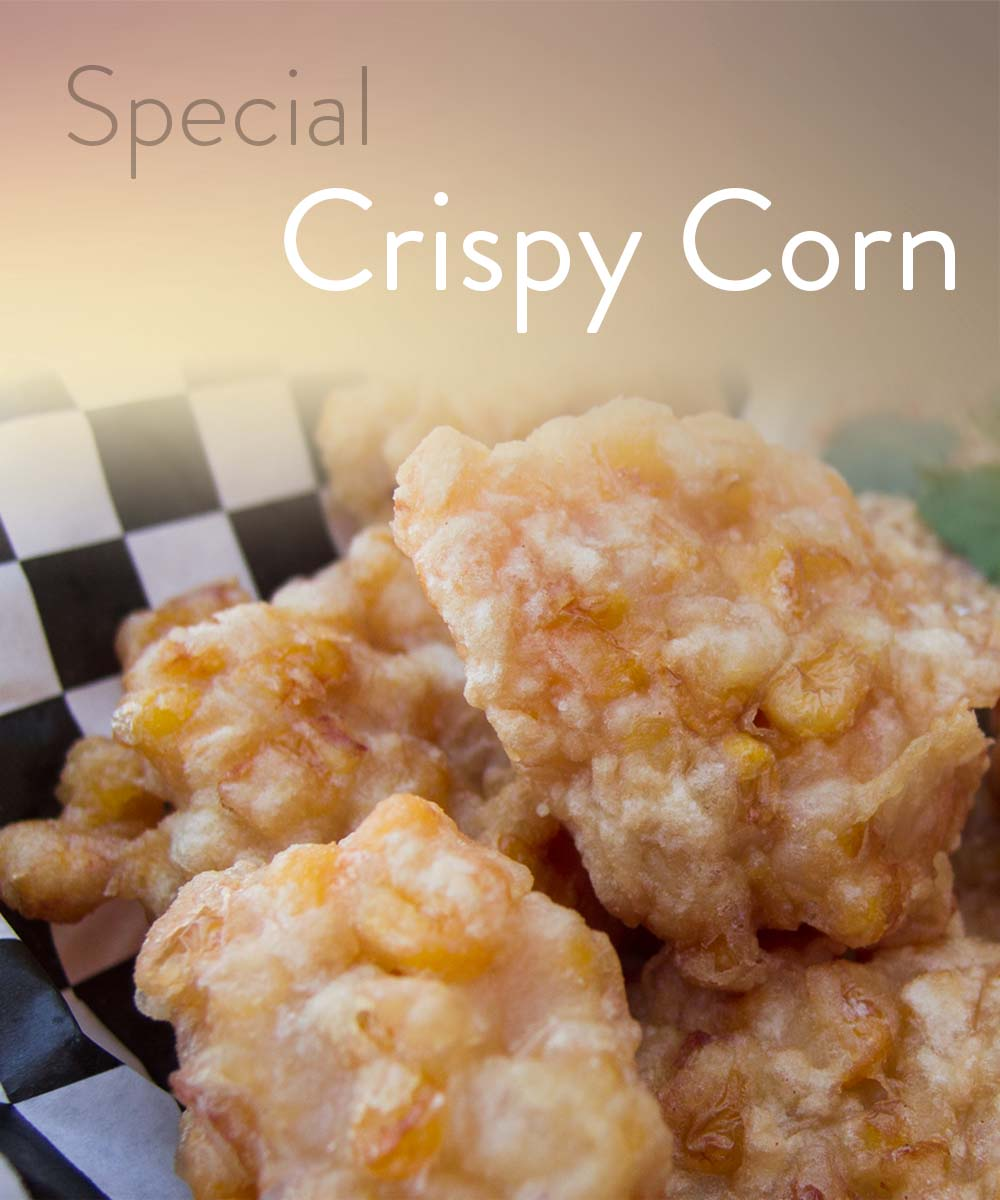
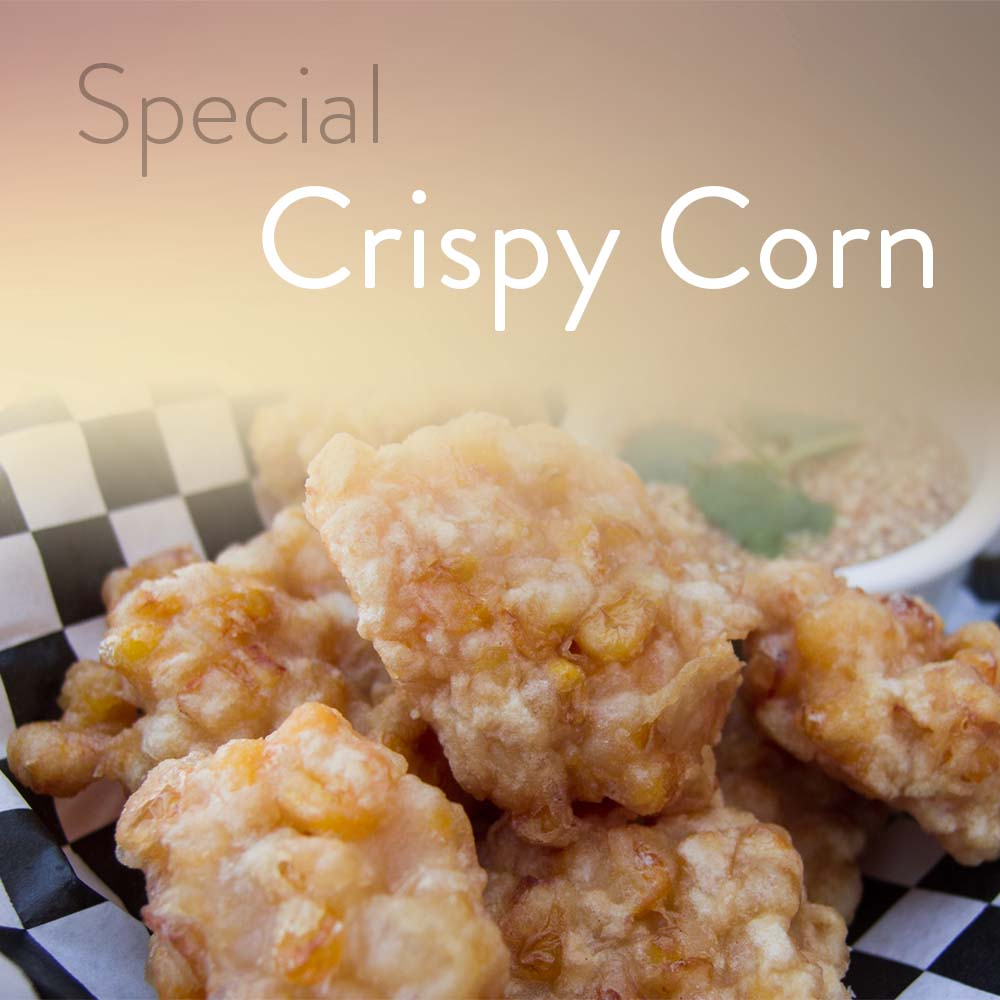
edit index

diff --git a/thairamaapp/templates/thairamaapp/index.html b/thairamaapp/templates/thairamaapp/index.html
@@ -11,9 +11,9 @@
   </div>
 
   <div class="owl-carousel" id = "mobile_slide">
-    <div class="item"><img src="{{MEDIA_URL}}images/other/1.jpg" alt="Welcome to Thai Rama"></div>
+    <div class="item"><img src="{{MEDIA_URL}}images/other/mobile_1.jpg" alt="Welcome to Thai Rama"></div>
     <div class="item"><img src="{{MEDIA_URL}}images/other/mobile_2.jpg" alt="Special: Crispy Corn"></div>
-    <div class="item"><img src="{{MEDIA_URL}}images/other/3.jpg" alt="Special: Curry Rolls"></div>
+    <div class="item"><img src="{{MEDIA_URL}}images/other/mobile_3.jpg" alt="Special: Curry Rolls"></div>
   </div>
 
 {% endblock %}
